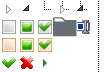
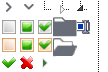
improve media-gallery directory styles

Changed region(s): [[0.4722, 0.5278, 0.7222, 0.8056], [0.1944, 0.0556, 0.3333, 0.1667], [0.0556, 0.0278, 0.1111, 0.1944]]

diff --git a/MediaGalleryUi/view/adminhtml/web/css/source/_module.less b/MediaGalleryUi/view/adminhtml/web/css/source/_module.less
@@ -10,16 +10,25 @@
         .jstree-default .jstree-hovered {
             border-radius: 6px;
             background:#cdecf6;
-            border: solid 0.14em;
             border-color:#7185f5;
         }
         
+        .jstree-default .jstree-leaf a .jstree-icon {
+            background-position: -52px -16px;
+        }
+
         .jstree-default a .jstree-icon {
             background-position: -52px -16px;
         }
 
-        .jstree a > ins {
+        .jstree-default .jstree-no-dots .jstree-open > a > ins {
+            background-position: -52px -38px;
+            width: 29px;
             height: 20px;
+        }
+
+        .jstree a > ins {
+            height: 22px;
             width: 20px;
         }
 
@@ -32,9 +41,10 @@
         }
 
         .jstree a { 
-            padding: 3px 8px;
+            padding-top: 4px;
+            padding-left: 6px;
             height: 30px;
-            width: 124%;
+            width: 94%;
             margin: 1px;
         }
 
@@ -114,13 +124,8 @@
             background-color: #e1e1e1 !important;
         }
         
-        .masonry-image-grid {
-            width: 84%;
-            float: right;
-        }
-
         .media-directory-container {
-            width:12%;
+            padding-right: 40px;
             float: left; 
         }
 
